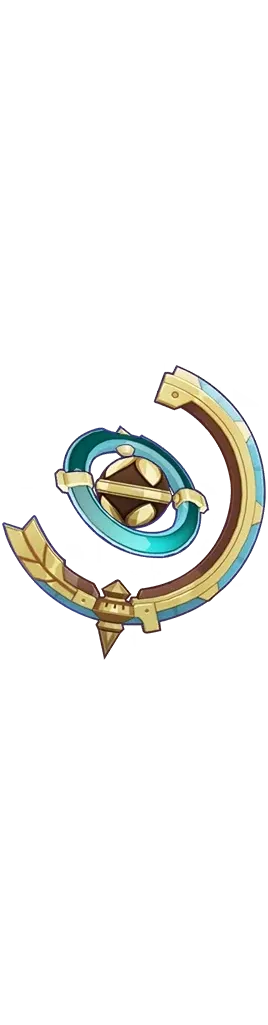
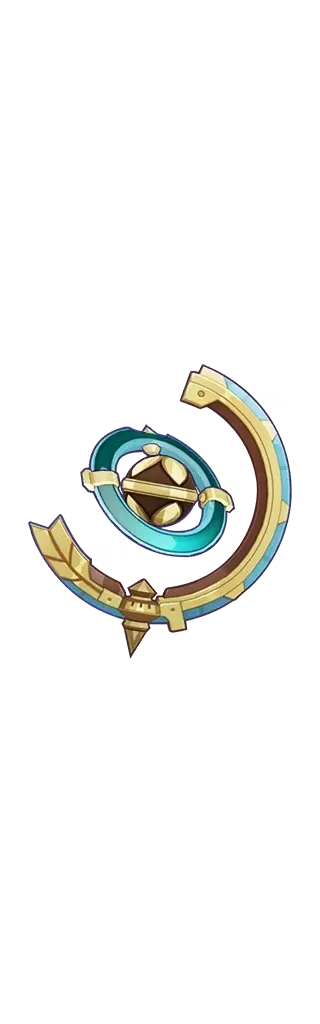
fix a wepon gacha image

Changed region(s): [[0.0, 0.3438, 1.0, 0.6562]]

diff --git a/tools/resources.js b/tools/resources.js
@@ -784,8 +784,8 @@ async function getGachaImg(url, file, lossless = true, isChar = true, size = [32
       gachaImg = await toWebp(
         gachaImg,
         true,
-        { resize: webpOpt.CROP, size: x },
-        { resize: webpOpt.CROP, size: y },
+        { resize: webpOpt.CROP, size: widthTo },
+        { resize: webpOpt.CROP, size: heightTo },
         webpPos.CENTER
       );
     }
